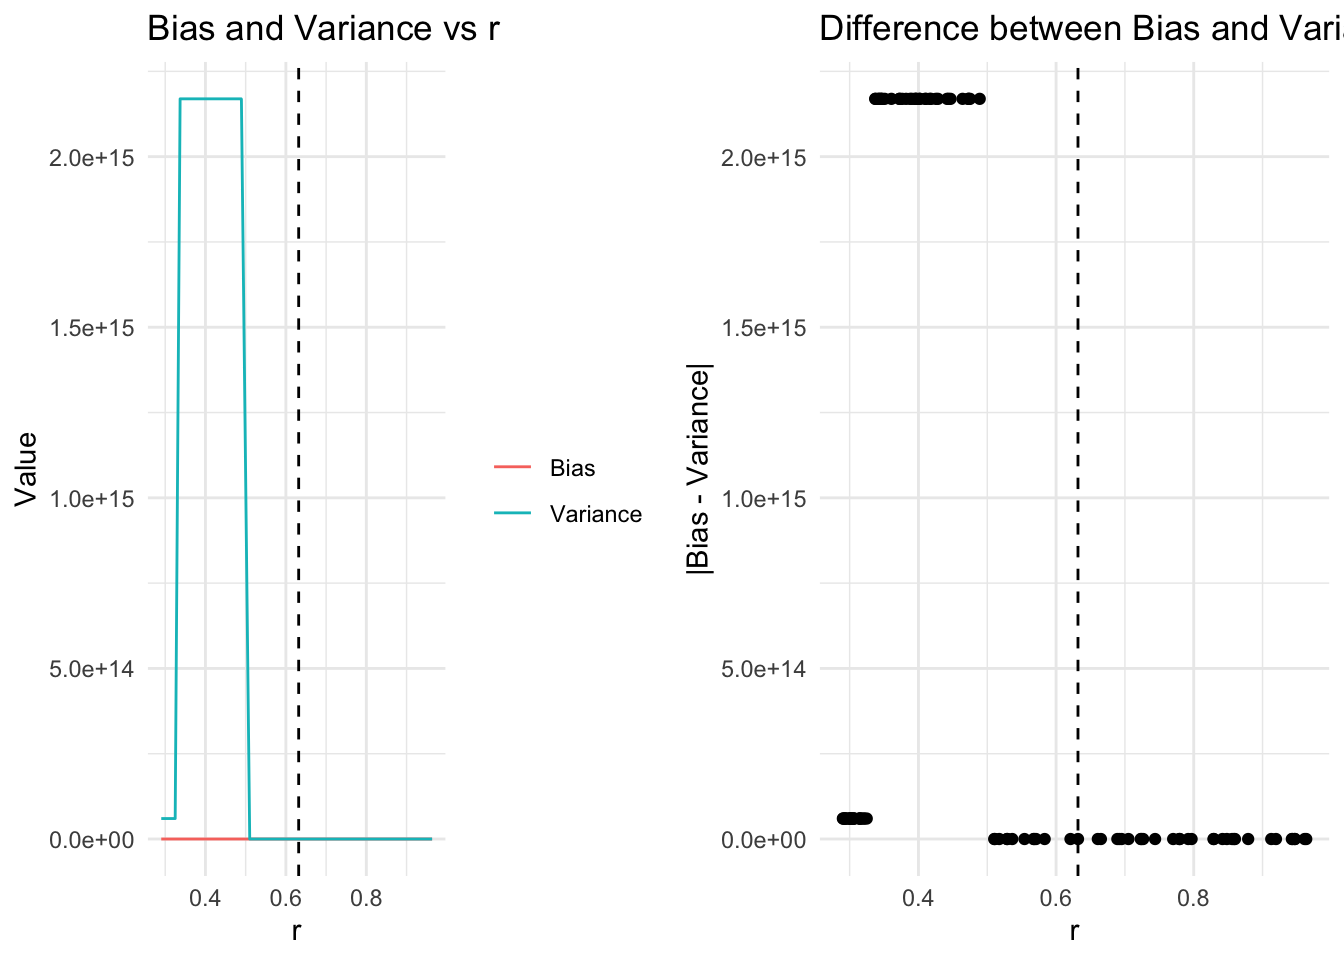
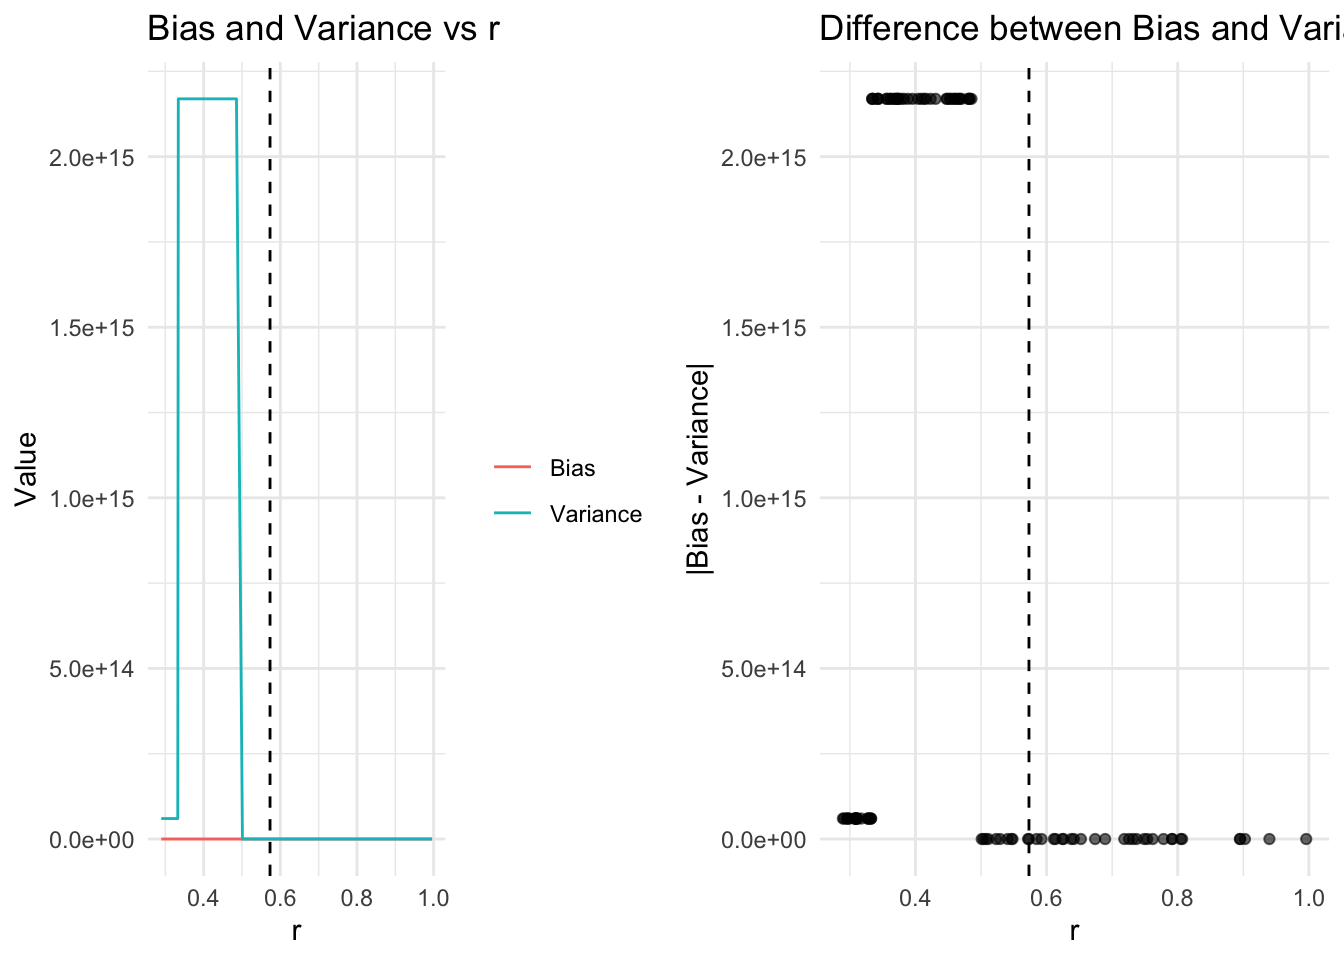
add estimator

diff --git a/histogram_based_method.html b/histogram_based_method.html
@@ -407,7 +407,7 @@ x&#39;||_{2}^{\beta}\)</span> with <span class="math inline">\(\beta \in
                           n0 = 1000,   # number of source samples
                           d  = 2,      # dimension
                           seed = 123) {
-  #set.seed(seed)
+  set.seed(seed)
   
   # --- Generate Source Data (Mixture of Gaussians) ---
   p_source &lt;- 0.5  # mixture proportion (50% from component 1, 50% from component 2)
@@ -479,8 +479,40 @@ class="math inline">\(n_1\)</span> is 1000.</p>
 source_sample_n = 1000
 min_sample = min(target_sample_n, source_sample_n)
 # Choose parameters
-r = 0.5 # we may use monte-carlo simulation
-alpha = log(target_sample_n) / target_sample_n</code></pre>
+r = 0.5731 # we may use monte-carlo simulation
+alpha = log(target_sample_n) / target_sample_n
+
+
+compute_histogram_ratio &lt;- function(x, target_data, source_data, r) {
+  # x is a numeric vector of length d
+  # target_data: n0 x d
+  # source_data: n1 x d
+  # r: numeric radius
+  
+  n0 &lt;- nrow(target_data)
+  n1 &lt;- nrow(source_data)
+  
+  # Indicator sum for target_data
+  # 1/ if distance &lt;= r, 0/ otherwise
+  # We&#39;ll compute Euclidean distance from x to each row in target_data
+  dist_target &lt;- apply(target_data, 1, function(xi) sqrt(sum((xi - x)^2)))
+  indicators_target &lt;- (dist_target &lt;= r)
+  numerator &lt;- mean(indicators_target)  # (1/n0) sum_i 1(...)
+  
+  # Indicator sum for source_data
+  dist_source &lt;- apply(source_data, 1, function(xi) sqrt(sum((xi - x)^2)))
+  indicators_source &lt;- (dist_source &lt;= r)
+  denominator &lt;- mean(indicators_source)  # (1/n1) sum_j 1(...)
+  
+  # Avoid division by zero if the denominator = 0
+  if (denominator == 0) {
+    ratio &lt;- Inf  # or define a small offset to avoid Inf, e.g. ratio &lt;- numerator / (denominator + 1e-10)
+  } else {
+    ratio &lt;- numerator / denominator
+  }
+  
+  return(ratio)
+}</code></pre>
 </div>
 <div id="highlights" class="section level2">
 <h2>Highlights</h2>
@@ -492,45 +524,21 @@ alpha = log(target_sample_n) / target_sample_n</code></pre>
 <h2>Code Appendix</h2>
 <div id="to-arbitrarily-choose-r" class="section level3">
 <h3>To arbitrarily choose r,</h3>
-<pre class="r"><code># Generates random mean and covariance for a single Gaussian component
-generate_gaussian_params &lt;- function(d = 2, seed = NULL) {
-  #if (!is.null(seed)) set.seed(seed)
-  
-  # Random mean between -3 and 3 in each dimension
-  mu &lt;- runif(d, min = -3, max = 3)
-  
-  # Random positive definite matrix for covariance
-  # 1. Generate random d x d matrix M
-  # 2. Make it symmetric positive-definite via Sigma = M^T * M + epsilon * I
-  M &lt;- matrix(rnorm(d^2), nrow = d, ncol = d)
-  Sigma &lt;- crossprod(M) + diag(d) * 0.1  # ensures positivity + some minimum variance
-  
-  list(mu = mu, Sigma = Sigma)
-}
-
-# Generates mu1, mu2, sigma1, sigma2 for a mixture of two Gaussians
-generate_mixture_params &lt;- function(d = 2, seed = NULL) {
-  #if (!is.null(seed)) set.seed(seed)
-  
-  comp1 &lt;- generate_gaussian_params(d)
-  comp2 &lt;- generate_gaussian_params(d)
-  
-  list(
-    mu1 = comp1$mu,
-    sigma1 = comp1$Sigma,
-    mu2 = comp2$mu,
-    sigma2 = comp2$Sigma
+<pre class="r"><code># Get parameters for source
+source_params &lt;- list(
+  mu1 = mean(source_data[,1]),
+  sigma1 = sd(source_data[,1]),
+  mu2 = mean(source_data[,2]),
+  sigma2 = sd(source_data[,2])
   )
-}
 
-# Suppose dimension d = 2
-d &lt;- 2
-
-# Generate random mixture parameters for source
-source_params &lt;- generate_mixture_params(d = d, seed = 123)
-
-# Generate random mixture parameters for target
-target_params &lt;- generate_mixture_params(d = d, seed = 456)
+# Get parameters for target
+target_params &lt;- list(
+  mu1 = mean(target_data[,1]),
+  sigma1 = sd(target_data[,1]),
+  mu2 = mean(target_data[,2]),
+  sigma2 = sd(target_data[,2])
+  )
 
 # How to arbitrarily choose r(How the Kpotufe does)
 # Load necessary libraries
@@ -600,7 +608,7 @@ estimate_density_ratio_histogram &lt;- function(source_data, target_data, r, d, 
 select_optimal_r &lt;- function(source_data, target_data, d, n0, n1,
                              beta_samples = 100, num_bins = NULL, seed = 123,
                              source_params = NULL, target_params = NULL) {
-  #set.seed(seed)
+  set.seed(seed)
 
   # Normalize data to [0,1] in each dimension for simplicity
   normalize_data &lt;- function(data) {
@@ -615,7 +623,7 @@ select_optimal_r &lt;- function(source_data, target_data, d, n0, n1,
   # To ensure integer bins, we&#39;ll adjust accordingly
 
   # Sample beta&#39;s uniformly from (0,1]
-  beta_values &lt;- runif(beta_samples, min = 1e-3, max = 1)  # Avoid exactly 0
+  beta_values &lt;- runif(beta_samples, min = 1e-3, max = 1 + 1e-15)  # Avoid exactly 0
 
   # Compute r for each beta
   min_n &lt;- min(n0, n1)
@@ -702,7 +710,7 @@ select_optimal_r &lt;- function(source_data, target_data, d, n0, n1,
     theme_minimal()
 
   p2 &lt;- ggplot(plot_df, aes(x = r, y = diff)) +
-    geom_point() +
+    geom_point(alpha = 0.6) +
     geom_vline(xintercept = optimal_r, linetype = &quot;dashed&quot;, color = &quot;black&quot;) +
     labs(title = &quot;Difference between Bias and Variance vs r&quot;,
          x = &quot;r&quot;,
@@ -777,7 +785,7 @@ class="math inline">\(r\)</span> would fall into. So we simulate the
 data-driven method used in <a
 href="https://proceedings.mlr.press/v54/kpotufe17a/kpotufe17a.pdf">Kpotufe(2017)</a>.</p>
 <p>With the simulation, we have <span class="math inline">\(r\)</span> =
-0.6317961, <span class="math inline">\(\beta\)</span> = 0.2263834. We
+0.5731211, <span class="math inline">\(\beta\)</span> = 0.2882899. We
 choose the <span class="math inline">\(r\)</span> when its variance(=
 0.3385516) and bias(= 0.5558634) term are approximately equal.</p>
 </div>
